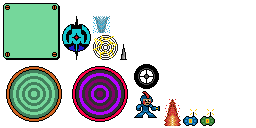
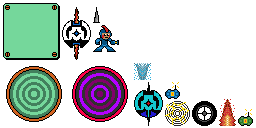
implemented fireyzoomba class

Changed region(s): [[0.5, 0.4688, 1.0, 1.0], [0.2188, 0.0625, 0.5, 0.4688]]

diff --git a/core/src/com/udacity/gamedev/gigagal/util/Assets.java b/core/src/com/udacity/gamedev/gigagal/util/Assets.java
@@ -12,6 +12,7 @@ import com.badlogic.gdx.graphics.g2d.TextureAtlas.AtlasRegion;
 import com.badlogic.gdx.utils.Array;
 import com.badlogic.gdx.utils.Disposable;
 import com.udacity.gamedev.gigagal.Level;
+import com.udacity.gamedev.gigagal.entities.FireyZoomba;
 
 // immutable singleton
 public final class Assets implements Disposable, AssetErrorListener {
@@ -23,6 +24,7 @@ public final class Assets implements Disposable, AssetErrorListener {
     private PlatformAssets platformAssets;
     private BulletAssets bulletAssets;
     private ZoombaAssets zoombaAssets;
+    private FireyZoombaAssets fireyZoombaAssets;
     private SpikeAssets spikeAssets;
     private FlameAssets flameAssets;
     private GeiserAssets geiserAssets;
@@ -53,6 +55,7 @@ public final class Assets implements Disposable, AssetErrorListener {
         platformAssets = new PlatformAssets(atlas, levelNumber);
         bulletAssets = new BulletAssets(atlas);
         zoombaAssets = new ZoombaAssets(atlas);
+        fireyZoombaAssets = new FireyZoombaAssets(atlas);
         spikeAssets = new SpikeAssets(atlas);
         flameAssets = new FlameAssets(atlas);
         geiserAssets = new GeiserAssets(atlas);
@@ -171,6 +174,21 @@ public final class Assets implements Disposable, AssetErrorListener {
             zoomba = atlas.findRegion(Constants.ZOOMBA_SPRITE);
         }
     }
+    
+    public class FireyZoombaAssets {
+
+        public final Animation fireyZoomba;
+
+        public FireyZoombaAssets(TextureAtlas atlas) {
+            Array<AtlasRegion> fireyZoombaRegions = new Array<AtlasRegion>();
+            fireyZoombaRegions.add(atlas.findRegion(Constants.FIREYZOOMBA_SPRITE_1));
+            fireyZoombaRegions.add(atlas.findRegion(Constants.FIREYZOOMBA_SPRITE_2));
+
+            fireyZoomba = new Animation(Constants.FLAME_DURATION / fireyZoombaRegions.size,
+                    fireyZoombaRegions, PlayMode.NORMAL);
+        }
+    }
+    
 
     public class SpikeAssets {
 
@@ -322,6 +340,7 @@ public final class Assets implements Disposable, AssetErrorListener {
     public final PlatformAssets getPlatformAssets() { return platformAssets; }
     public final BulletAssets getBulletAssets() { return bulletAssets; }
     public final ZoombaAssets getZoombaAssets() { return zoombaAssets; }
+    public final FireyZoombaAssets getFireyZoombaAssets() { return fireyZoombaAssets; }
     public final SpikeAssets getSpikeAssets() { return spikeAssets; }
     public final FlameAssets getFlameAssets() { return flameAssets; }
     public final GeiserAssets getGeiserAssets() { return geiserAssets; }

diff --git a/core/src/com/udacity/gamedev/gigagal/util/LevelLoader.java b/core/src/com/udacity/gamedev/gigagal/util/LevelLoader.java
@@ -7,6 +7,7 @@ import com.badlogic.gdx.utils.Array;
 import com.udacity.gamedev.gigagal.Level;
 import com.udacity.gamedev.gigagal.entities.AmmoPowerup;
 import com.udacity.gamedev.gigagal.entities.Coil;
+import com.udacity.gamedev.gigagal.entities.FireyZoomba;
 import com.udacity.gamedev.gigagal.entities.Vacuum;
 import com.udacity.gamedev.gigagal.entities.Flame;
 import com.udacity.gamedev.gigagal.entities.Geiser;
@@ -131,9 +132,14 @@ public final class LevelLoader {
 
             platformArray.add(platform);
 
-            if (identifier != null && identifier.equals(Constants.LEVEL_ZOOMBA_TAG)) {
-                final Zoomba zoomba = new Zoomba(platform);
-                level.getDestructibles().add(zoomba);
+            if (identifier != null) {
+                if (identifier.equals(Constants.LEVEL_ZOOMBA_TAG)) {
+                    final Zoomba zoomba = new Zoomba(platform);
+                    level.getDestructibles().add(zoomba);
+                } else if (identifier.equals(Constants.LEVEL_FIREYZOOMBA_TAG)) {
+                    final FireyZoomba fireyZoomba = new FireyZoomba(platform);
+                    level.getDestructibles().add(fireyZoomba);
+                }
             }
         }
 

diff --git a/core/src/com/udacity/gamedev/gigagal/entities/Zoomba.java b/core/src/com/udacity/gamedev/gigagal/entities/Zoomba.java
@@ -21,6 +21,16 @@ public class Zoomba extends Destructible {
     private int health;
     private Direction direction;
 
+    //default ctor
+    public Zoomba() {
+        this.platform = new Platform();
+        direction = Direction.RIGHT;
+        position = new Vector2(platform.getLeft(), platform.getTop() + Constants.ZOOMBA_CENTER.y);
+        startTime = TimeUtils.nanoTime();
+        health = Constants.ZOOMBA_MAX_HEALTH;
+        bobOffset = MathUtils.random();
+    }
+
     // ctor
     public Zoomba(Platform platform) {
         this.platform = platform;
@@ -58,7 +68,8 @@ public class Zoomba extends Destructible {
         Utils.drawTextureRegion(batch, region, position, Constants.ZOOMBA_CENTER);
     }
 
-    public Direction getDirection() { return direction; }
+    public final Direction getDirection() { return direction; }
+    public final long getStartTime() { return startTime; }
     public final Vector2 getPosition() { return position; }
     public final int getHealth() { return health; }
     public final float getWidth() { return Constants.ZOOMBA_COLLISION_RADIUS * 2; }

diff --git a/core/src/com/udacity/gamedev/gigagal/util/Constants.java b/core/src/com/udacity/gamedev/gigagal/util/Constants.java
@@ -85,6 +85,11 @@ public final class Constants {
     public static final float ZOOMBA_SHOT_RADIUS = 17;
     public static final String ZOOMBA_SPRITE = "zoomba";
 
+    // Firey-Zoomba
+
+    public static final String FIREYZOOMBA_SPRITE_1 = "zoomba-fire-1";
+    public static final String FIREYZOOMBA_SPRITE_2 = "zoomba-fire-2";
+
     // Spike
     public static final Vector2 SPIKE_CENTER = new Vector2(4, 8);
     public static final int SPIKE_DAMAGE = 30;
@@ -189,6 +194,7 @@ public final class Constants {
     public static final String LEVEL_HEIGHT_KEY = "height";
     public static final String LEVEL_IDENTIFIER_KEY = "itemIdentifier";
     public static final String LEVEL_ZOOMBA_TAG = "Zoomba";
+    public static final String LEVEL_FIREYZOOMBA_TAG = "FireyZoomba";
     public static final String[] LEVELS = {"levels/Level1.dt", "levels/Level2.dt", "levels/Level3.dt", };
 
     // HUD

diff --git a/core/src/com/udacity/gamedev/gigagal/entities/FireyZoomba.java b/core/src/com/udacity/gamedev/gigagal/entities/FireyZoomba.java
@@ -1,0 +1,22 @@
+package com.udacity.gamedev.gigagal.entities;
+
+import com.badlogic.gdx.graphics.g2d.SpriteBatch;
+import com.badlogic.gdx.graphics.g2d.TextureRegion;
+import com.udacity.gamedev.gigagal.util.Assets;
+import com.udacity.gamedev.gigagal.util.Constants;
+import com.udacity.gamedev.gigagal.util.Utils;
+
+public class FireyZoomba extends Zoomba {
+
+    // ctor
+    public FireyZoomba(Platform platform) {
+        super(platform);
+    }
+
+    @Override
+    public void render(SpriteBatch batch) {
+        final float elapsedTime = Utils.secondsSince(super.getStartTime());
+        final TextureRegion region = Assets.getInstance().getFireyZoombaAssets().fireyZoomba.getKeyFrame(elapsedTime, true);
+        Utils.drawTextureRegion(batch, region, super.getPosition(), Constants.ZOOMBA_CENTER);
+    }
+}

diff --git a/core/src/com/udacity/gamedev/gigagal/entities/Platform.java b/core/src/com/udacity/gamedev/gigagal/entities/Platform.java
@@ -16,6 +16,14 @@ public final class Platform implements Physical {
     // This is used by the level loading code to link enemies and platforms.
     private static String identifier;
 
+    // default ctor
+    public Platform() {
+        top = 0;
+        bottom = 0;
+        left = 0;
+        right = 0;
+    }
+
     // ctor
     public Platform(float left, float top, float width, float height) {
         this.top = top;
